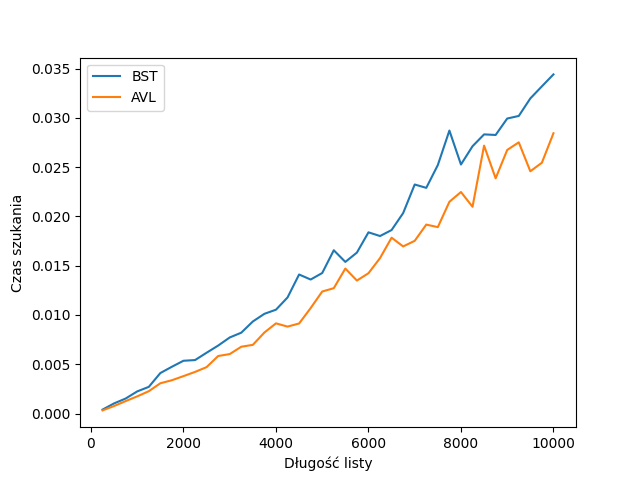
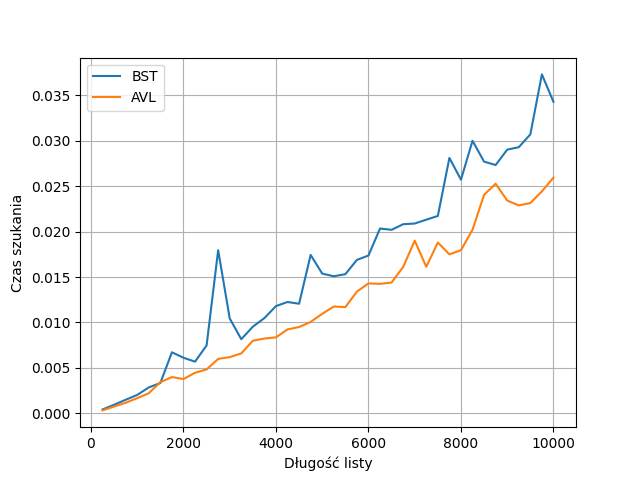
dodanie sprawozdania

diff --git a/lab2-drzewa/testowanie.py b/lab2-drzewa/testowanie.py
@@ -59,6 +59,7 @@ plt.plot(N_list,creating_tree_results[1],label='AVL')
 plt.legend()
 plt.xlabel("Długość listy")
 plt.ylabel("Czas tworzenia")
+plt.grid()
 # plt.show()
 plt.savefig("tworzenie.png")
 plt.close()
@@ -69,6 +70,7 @@ plt.plot(N_list,searching_tree_results[1],label='AVL')
 plt.legend()
 plt.xlabel("Długość listy")
 plt.ylabel("Czas szukania")
+plt.grid()
 # plt.show()
 plt.savefig("szukanie.png")
 plt.close()
@@ -78,6 +80,7 @@ plt.plot(N_list,deleting_tree_results[1],label='AVL')
 plt.legend()
 plt.xlabel("Długość listy")
 plt.ylabel("Czas usuwania")
+plt.grid()
 # plt.show()
 plt.savefig("usuwanie.png")
 plt.close()

diff --git a/lab2-drzewa/sprawozdanie.md b/lab2-drzewa/sprawozdanie.md
@@ -1,0 +1,22 @@
+# Drzewa - sprawozdanie
+
+Podział zadań:
+- Mateusz Roszkowski - BST
+- Kamil Szczepanik - AVL
+
+## Wyniki eksperymentów
+
+### Tworzenie drzew
+![plot](wykresy/tworzenie.png "Tworzenie drzew")
+
+### Szuaknie w drzewie
+![plot](wykresy/szukanie.png "Szuaknie w drzewie")
+
+### Usuwanie elementów w drzewie
+![plot](wykresy/usuwanie.png "Usuwanie elementów w drzewie")
+
+
+### Wnioski:
+- Tworzenie drzew jest szybsze dla BST, ponieważ nie wykonywane są żadne rotacje. 
+- Wyszukiwanie w drzewie jest szybsze w AVL, ponieważ te drzewa nie są aż tak wysokie jak BST.
+-  Usuwanie jest szybsze dla BST. Wydawałoby się, że tutaj również AVL ma szanse być szybszym algorytmem, ponieważ w usuwaniu wykonywana jest operacja szukania. Widocznie częste rotacje są powodem do wolniejszego działania.

diff --git a/README.md b/README.md
@@ -8,3 +8,9 @@
 ## Sortowanie
 
 [Sprawozdanie](/lab1-sortowanie/sprawozdanie.pdf)
+
+## Drzewa
+
+[Sprawozdanie](/lab1-sortowanie/sprawozdanie.md)
+
+
